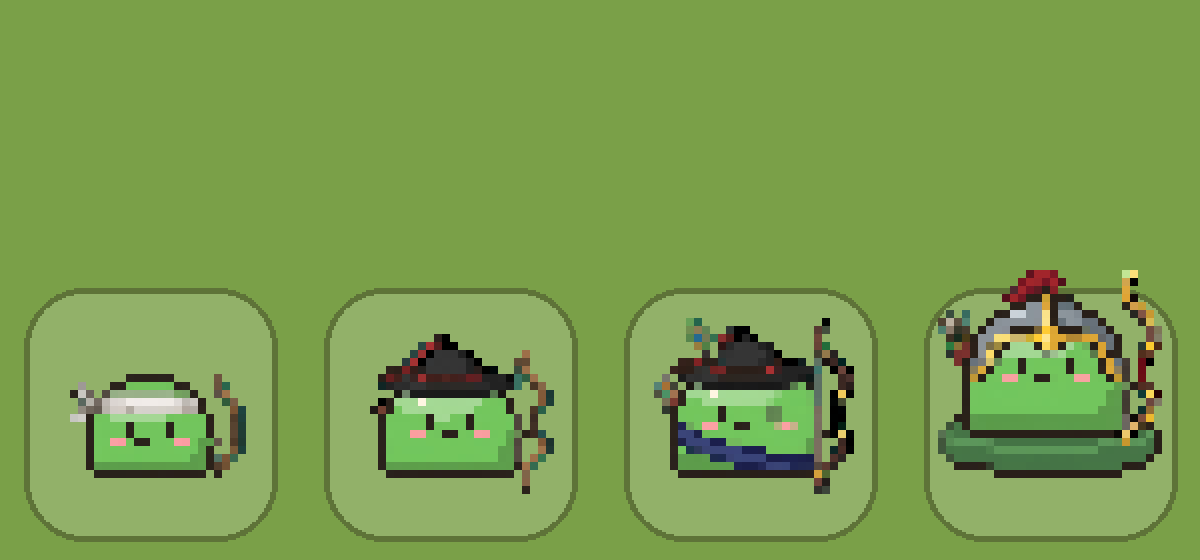
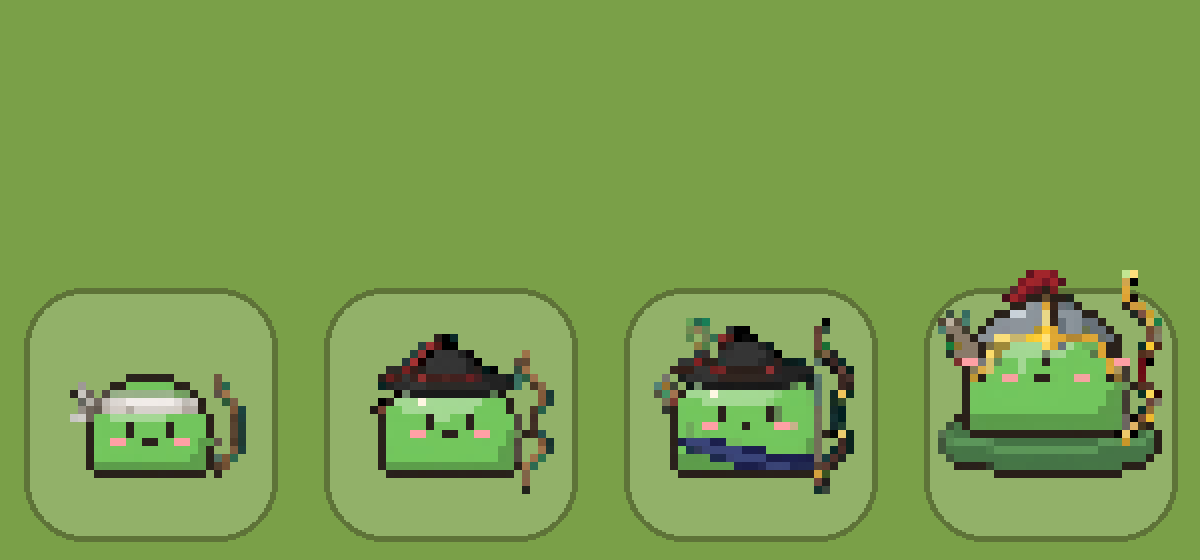
art: 도트 슬라임 얼굴 다시 찍기 (원본 눈 자리 기준, 견본 얼굴로)
Claude-Session: https://claude.ai/code/session_01516Ff1ezD39vnqGwiHhyKB

diff --git a/art/tools/slime/snap_pixel_slime.py b/art/tools/slime/snap_pixel_slime.py
@@ -81,7 +81,7 @@ def snap(path, P=None):
     out = np.zeros((len(ys), len(xs), 4), np.uint8)
     for j, y in enumerate(ys):
         for i, x in enumerate(xs):
-            y0, y1 = int(max(0, y + 2)), int(min(H, y + P - 2)); x0, x1 = int(max(0, x + 2)), int(min(W, x + P - 2))
+            y0, y1 = int(max(0, y + 1)), int(min(H, y + P - 1)); x0, x1 = int(max(0, x + 1)), int(min(W, x + P - 1))
             if y1 <= y0 or x1 <= x0: continue
             c = np.median(a[y0:y1, x0:x1].reshape(-1, 3), 0)
             out[j, i, :3] = c
@@ -97,7 +97,34 @@ def snap(path, P=None):
     # 안쪽에 남은 밝은 하늘색 번짐(창 자루 옆 등)도 버림
     strong = (c[..., 1] - c[..., 0] > 45) & (c[..., 2] - c[..., 0] > 45) & (np.abs(c[..., 1] - c[..., 2]) < 35)   # 청록·하늘색 계열
     out[strong, 3] = 0
+    global FACE_BLOBS
+    FACE_BLOBS = face_blobs(a, P, OX - P, OY)
     return out
+
+
+FACE_BLOBS = []
+
+
+def face_blobs(a, P, gx, gy):
+    """원본에서 몸 색에 둘러싸인 작은 진한 덩어리(눈·입) → 도트 좌표 (가운데 y, 가운데 x, 넓이)."""
+    dark = a.sum(2) < 200
+    lab, n = ndimage.label(dark)
+    H, W = dark.shape
+    found = []
+    for k, sl in enumerate(ndimage.find_objects(lab), 1):
+        if sl is None: continue
+        h = sl[0].stop - sl[0].start; w = sl[1].stop - sl[1].start
+        if h > P * 3.2 or w > P * 4.5 or h * w < P * P * 0.3: continue
+        blob = lab[sl] == k
+        y0, y1 = max(0, sl[0].start - 3), min(H, sl[0].stop + 3); x0, x1 = max(0, sl[1].start - 3), min(W, sl[1].stop + 3)
+        ring = np.ones((y1 - y0, x1 - x0), bool)
+        ring[sl[0].start - y0:sl[0].stop - y0, sl[1].start - x0:sl[1].stop - x0] &= ~blob
+        rc = a[y0:y1, x0:x1][ring & ~dark[y0:y1, x0:x1]]
+        if len(rc) < ring.sum() * 0.85: continue
+        if ((rc[:, 1] > 200) & (rc[:, 2] > 200) & (rc[:, 0] < 120)).mean() > 0.05: continue
+        ys, xs = np.where(blob)
+        found.append(((ys.mean() + sl[0].start - gy) / P, (xs.mean() + sl[1].start - gx) / P, len(ys) / (P * P), h / P, w / P))
+    return found
 
 
 def split(d, body_rgb):
@@ -131,11 +158,64 @@ def split(d, body_rgb):
         fy = rows[-1] + 1
         widest = max(rows, key=lambda r: body[r].sum())
         wc = np.where(body[widest])[0]
-        parts.append((piece, ((wc[0] + wc[-1] + 1) / 2, fy), wc[-1] - wc[0] + 1))
+        parts.append((piece, ((wc[0] + wc[-1] + 1) / 2, fy), wc[-1] - wc[0] + 1, (ys[0], x0)))
     return parts
 
 
 RECRUIT_BODY = 14   # 견본의 군졸 몸 폭(도트). 제미나이가 크게 그렸으면 도트 크기를 다시 잡는다.
+TEMPLATE_W = [14, 16, 18, 20]
+OUTLINE = (42, 33, 28)
+CHEEK = (255, 160, 165)
+
+
+def redraw_face(piece, off, body_rgb):
+    """얼굴 다시 찍기: 제미나이 도트는 격자가 고르지 않아 1도트짜리 눈·입이 줄이면서 뭉개진다.
+    원본에서 찾은 눈 두 개의 자리를 기준으로, 얼굴 줄의 진한·분홍 점을 몸색으로 지우고
+    견본과 같은 얼굴(눈 1×2, 볼 2도트씩, 입)을 다시 찍는다."""
+    oy, ox = off
+    H, W = piece.shape[:2]
+    blobs = [(y - oy, x - ox, a, h, w) for y, x, a, h, w in FACE_BLOBS if 0 <= y - oy < H and 0 <= x - ox < W]
+    # 눈: 키가 폭보다 크고 크기가 비슷하며 같은 높이인 두 덩어리
+    best = None
+    for i in range(len(blobs)):
+        for j in range(i + 1, len(blobs)):
+            b1, b2 = blobs[i], blobs[j]
+            if abs(b1[0] - b2[0]) > 0.8 or abs(b1[1] - b2[1]) < 3: continue
+            if b1[3] < b1[4] * 1.1 or b2[3] < b2[4] * 1.1: continue
+            score = abs(b1[2] - b2[2]) + abs(b1[0] - b2[0])
+            if best is None or score < best[0]: best = (score, b1, b2)
+    if best is None:
+        print('  눈을 못 찾음 — 얼굴은 그대로')
+        return
+    l, r = sorted([best[1], best[2]], key=lambda b: b[1])
+    ey = int(round((l[0] + r[0]) / 2 - 1.0))
+    el, er = int(l[1]), int(r[1])
+    c = piece[..., :3].astype(int)
+    base = np.array(body_rgb)
+    for y in range(ey - 2, ey + 4):
+        for x in range(el - 5, er + 6):
+            if not (0 <= y < H and 0 <= x < W) or piece[y, x, 3] == 0: continue
+            v = c[y, x]
+            pink = v[0] > 200 and v[1] < 190 and v[2] > 140 and v[0] - v[1] > 40
+            facey = abs(v - base).sum() > 90 and abs(v - base * 0.8).sum() > 90 and v.sum() < 330   # 몸색과 다른 어두운 점(입 옆 잡티)
+            if v.sum() < 260 or pink or (facey and ey <= y <= ey + 2 and el - 1 <= x <= er + 1):
+                # 외곽선(바로 옆이 투명)은 건드리지 않음
+                if any(not (0 <= yy < H and 0 <= xx < W) or piece[yy, xx, 3] == 0 for yy, xx in ((y - 1, x), (y + 1, x), (y, x - 1), (y, x + 1))):
+                    continue
+                nb = [c[yy, xx] for yy, xx in ((y - 1, x), (y, x - 1), (y - 2, x), (y, x + 1), (y + 1, x))
+                      if 0 <= yy < H and 0 <= xx < W and np.abs(c[yy, xx] - base).sum() < 150]
+                piece[y, x, :3] = nb[0] if nb else base
+                c[y, x] = piece[y, x, :3]
+
+    def put(y, x, col):
+        if 0 <= y < H and 0 <= x < W and piece[y, x, 3] > 0:
+            piece[y, x, :3] = col
+    for ex in (el, er):
+        put(ey, ex, OUTLINE); put(ey + 1, ex, OUTLINE)
+    for x in (el - 2, el - 1, er + 1, er + 2): put(ey + 2, x, CHEEK)
+    mid = (el + er) / 2
+    if (er - el) % 2 == 0: put(ey + 2, int(mid), OUTLINE)
+    else: put(ey + 2, int(mid), OUTLINE); put(ey + 2, int(mid) + 1, OUTLINE)
 
 
 def build(branch):
@@ -151,7 +231,8 @@ def build(branch):
         parts = split(d, BODY[branch])
     dots_dir = os.path.join(ROOT, 'art/source/gemini/slime-pixel/dots'); os.makedirs(dots_dir, exist_ok=True)
     sprites = []
-    for (piece, foot, bw), rk in zip(parts, RANKS):
+    for (piece, foot, bw, off), rk in zip(parts, RANKS):
+        redraw_face(piece, off, BODY[branch])
         Image.fromarray(piece).save(os.path.join(dots_dir, f'{branch}-{rk}.png'))
         h, w = piece.shape[:2]
         big = Image.fromarray(piece).resize((w * DOT2X, h * DOT2X), Image.NEAREST)
